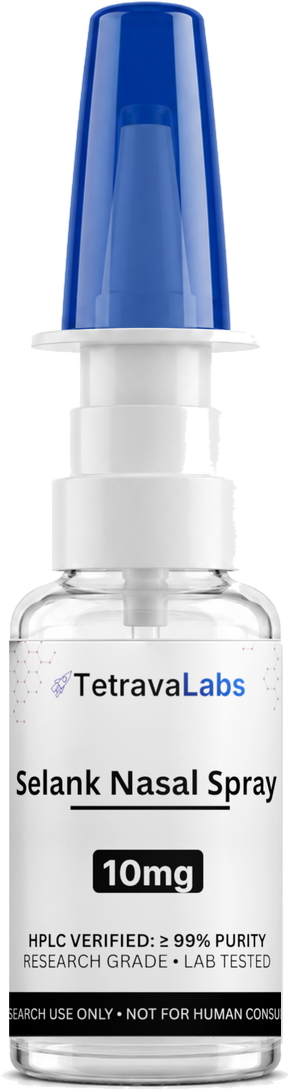
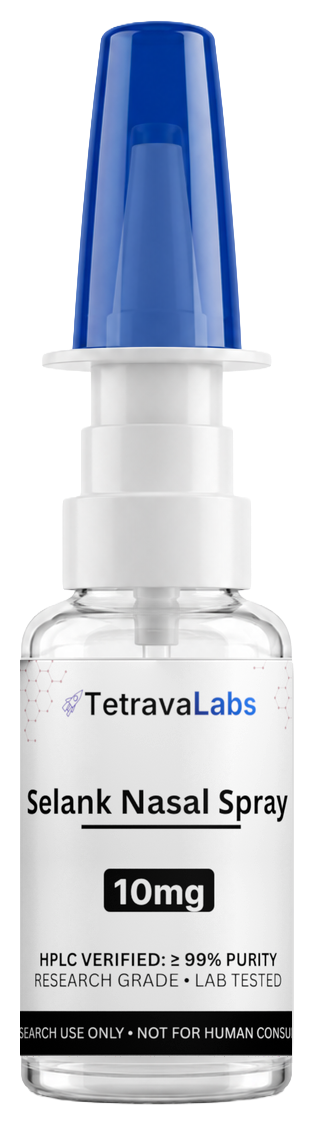
fix: crop hero images and correct intrinsic dimensions for all 3 products

diff --git a/apps/storefront/src/app/globals.css b/apps/storefront/src/app/globals.css
@@ -176,161 +176,159 @@
   animation: mesh-drift-3 18s ease-in-out infinite;
 }
 
-/* Homepage hero — overlapping product cluster */
+/* ─── Homepage hero — SwissChems-style overlapping product cluster ─── */
+
 .hero-stage {
   position: relative;
+  z-index: 2;
   width: 100%;
-  max-width: 600px;
+  max-width: 640px;
   margin: 0 auto;
-  height: clamp(320px, 38vw, 430px);
-  display: flex;
-  align-items: flex-end;
-  justify-content: center;
+  /* Tall enough for the largest bottle; overflow-visible lets bases dip below */
+  height: clamp(360px, 44vw, 520px);
+  /* Push stage down so bottle bases "pop up" from the green trust bar */
+  transform: translateY(clamp(28px, 4.5vw, 68px));
 }
 
 .hero-stage-glow {
   position: absolute;
-  top: 46%;
+  top: 50%;
   left: 50%;
-  width: 78%;
-  height: 78%;
+  width: 86%;
+  height: 60%;
   transform: translate(-50%, -50%);
   background: radial-gradient(
-    closest-side,
-    rgb(13 148 136 / 0.16),
-    rgb(37 99 235 / 0.08) 55%,
-    transparent 78%
+    ellipse 80% 70% at 50% 50%,
+    rgb(13 148 136 / 0.14),
+    rgb(37 99 235 / 0.07) 45%,
+    transparent 80%
   );
-  filter: blur(6px);
+  filter: blur(8px);
   pointer-events: none;
   z-index: 0;
 }
 
 .hero-stage-cluster {
-  position: relative;
-  width: 100%;
-  height: 100%;
+  position: absolute;
+  inset: 0;
   z-index: 1;
 }
 
 .hero-stage-floor {
   position: absolute;
   left: 50%;
-  bottom: clamp(20px, 5%, 44px);
-  width: 74%;
-  height: 34px;
+  bottom: 4px;
+  width: 80%;
+  height: 40px;
   transform: translateX(-50%);
-  background: radial-gradient(
-    50% 50% at 50% 50%,
-    rgb(15 23 42 / 0.18),
-    transparent 72%
-  );
-  filter: blur(3px);
+  background: radial-gradient(50% 50% at 50% 50%, rgb(15 23 42 / 0.16), transparent 72%);
+  filter: blur(6px);
   z-index: 0;
   pointer-events: none;
 }
 
-.hero-prod {
+/* Shared slot wrapper — same as SwissChems .h3-slot */
+.hero-slot {
   position: absolute;
-  bottom: 0;
-  display: block;
   transform-origin: center bottom;
-  transition: transform 0.3s ease, filter 0.3s ease;
 }
 
 .hero-prod-img {
   display: block;
   width: auto;
-  height: auto;
-  max-width: none;
+  transform-origin: center bottom;
   will-change: transform;
   backface-visibility: hidden;
 }
 
-/* Capsule bottle — back layer, anchored right, tucked behind vial */
-.hero-prod-back {
-  right: 8%;
+/* ── Left slot: Retatrutide vial (small, back, z-1) ── */
+.hero-slot-left {
+  left: 8%;
+  bottom: -26px;
+  transform: rotate(-6deg);
   z-index: 1;
-  transform: rotate(6deg);
-  animation: hero-rise 1.1s cubic-bezier(0.16, 0.84, 0.3, 1) 0.28s both;
 }
 
-.hero-prod-back .hero-prod-img {
-  height: clamp(220px, 27vw, 322px);
-  filter: drop-shadow(-6px 16px 24px rgb(15 23 42 / 0.22));
+.hero-slot-left .hero-prod-img {
+  height: clamp(264px, 28vw, 340px);
+  filter: drop-shadow(6px 14px 20px rgb(15 23 42 / 0.20));
+  animation:
+    hero-h3rise 1.1s cubic-bezier(0.16, 0.84, 0.3, 1) 0.30s both,
+    hero-h3zoom-side 9s ease-in-out 3.6s infinite;
 }
 
-.hero-prod-back:hover {
-  transform: rotate(6deg) translateY(-6px);
-}
-
-/* Nasal spray — mid layer, tall, left, tucked behind vial */
-.hero-prod-mid {
-  left: 6%;
+/* ── Center slot: Selank Nasal Spray (tall, mid, z-2) ── */
+.hero-slot-center {
+  left: 31%;
+  bottom: -15px;
   z-index: 2;
-  transform: rotate(-7deg);
-  animation: hero-rise 1.1s cubic-bezier(0.16, 0.84, 0.3, 1) 0.16s both;
 }
 
-.hero-prod-mid .hero-prod-img {
-  height: clamp(262px, 31vw, 374px);
-  filter: drop-shadow(6px 16px 24px rgb(15 23 42 / 0.22));
+.hero-slot-center .hero-prod-img {
+  height: clamp(300px, 32vw, 386px);
+  filter: drop-shadow(0 16px 22px rgb(15 23 42 / 0.22));
+  animation:
+    hero-h3rise 1.1s cubic-bezier(0.16, 0.84, 0.3, 1) 0.18s both,
+    hero-h3zoom-side 9s ease-in-out 2.0s infinite;
 }
 
-.hero-prod-mid:hover {
-  transform: rotate(-7deg) translateY(-6px);
-}
-
-/* Vial — front hero layer, centered, overlapping both */
-.hero-prod-front {
-  left: 50%;
+/* ── Right slot: BPC-157 Capsules (largest, front, z-3) ── */
+.hero-slot-right {
+  right: -1%;
+  bottom: -34px;
+  transform: rotate(6deg);
   z-index: 3;
-  transform: translateX(-50%) rotate(-1deg);
-  animation: hero-rise-front 1.2s cubic-bezier(0.16, 0.84, 0.3, 1) 0.05s both;
 }
 
-.hero-prod-front .hero-prod-img {
-  height: clamp(256px, 31vw, 374px);
-  filter: drop-shadow(0 20px 30px rgb(15 23 42 / 0.26));
+.hero-slot-right .hero-prod-img {
+  height: clamp(320px, 36vw, 436px);
+  filter: drop-shadow(-8px 20px 28px rgb(15 23 42 / 0.26));
+  animation:
+    hero-h3rise 1.2s cubic-bezier(0.16, 0.84, 0.3, 1) 0.06s both,
+    hero-h3zoom-front 9s ease-in-out 0.55s infinite;
 }
 
-.hero-prod-front:hover {
-  transform: translateX(-50%) rotate(-1deg) translateY(-8px);
+/* ── Hover lifts ── */
+.hero-slot-left:hover  { transform: rotate(-6deg) translateY(-6px); }
+.hero-slot-center:hover { transform: translateY(-6px); }
+.hero-slot-right:hover { transform: rotate(6deg) translateY(-8px); }
+
+/* ── Keyframes (exact SwissChems spec) ── */
+@keyframes hero-h3rise {
+  0%   { transform: translateY(22px) scale(0.965); opacity: 0; }
+  100% { transform: translateY(0) scale(1);        opacity: 1; }
 }
 
-@keyframes hero-rise {
-  0% {
-    opacity: 0;
-    translate: 0 26px;
-  }
-  100% {
-    opacity: 1;
-    translate: 0 0;
-  }
+@keyframes hero-h3zoom-front {
+  0%, 100% { transform: scale(1);     }
+  50%       { transform: scale(1.075); }
 }
 
-@keyframes hero-rise-front {
-  0% {
-    opacity: 0;
-    translate: 0 30px;
-  }
-  100% {
-    opacity: 1;
-    translate: 0 0;
-  }
+@keyframes hero-h3zoom-side {
+  0%, 100% { transform: scale(1);    }
+  50%       { transform: scale(1.04); }
 }
 
 @media (max-width: 980px) {
   .hero-stage {
     max-width: 480px;
-    height: clamp(320px, 62vw, 400px);
+    height: clamp(300px, 60vw, 400px);
+    transform: translateY(clamp(16px, 5vw, 40px));
   }
+
+  .hero-slot-left   .hero-prod-img { height: clamp(200px, 28vw, 260px); }
+  .hero-slot-center .hero-prod-img { height: clamp(224px, 32vw, 290px); }
+  .hero-slot-right  .hero-prod-img { height: clamp(252px, 36vw, 320px); }
 }
 
 @media (prefers-reduced-motion: reduce) {
-  .hero-prod {
+  .hero-slot .hero-prod-img,
+  .hero-slot-left .hero-prod-img,
+  .hero-slot-center .hero-prod-img,
+  .hero-slot-right .hero-prod-img {
     animation: none !important;
     opacity: 1;
+    transform: none;
   }
 }
 

diff --git a/apps/storefront/src/components/home/hero-product-stage.tsx b/apps/storefront/src/components/home/hero-product-stage.tsx
@@ -3,30 +3,30 @@ import Link from "next/link"
 
 const HERO_PRODUCTS = [
   {
-    slot: "back" as const,
-    src: "/products/v2/hero/bpc157-capsules.png",
-    href: "/product/bpc-157-capsules-100-count-500mcg",
-    label: "BPC-157 Capsules",
-    width: 503,
-    height: 1002,
+    slot: "left" as const,
+    src: "/products/v2/hero/retatrutide-20mg.png",
+    href: "/product/retatrutide-20mg",
+    label: "Retatrutide 20mg",
+    width: 334,
+    height: 750,
     priority: false
   },
   {
-    slot: "mid" as const,
+    slot: "center" as const,
     src: "/products/v2/hero/selank-nasal-spray-10mg.png",
     href: "/product/selank-nasal-spray-10mg",
     label: "Selank Nasal Spray 10mg",
-    width: 289,
-    height: 1090,
+    width: 314,
+    height: 1125,
     priority: false
   },
   {
-    slot: "front" as const,
-    src: "/products/v2/hero/retatrutide-5mg.png",
-    href: "/product/retatrutide-5mg",
-    label: "Retatrutide 5mg",
-    width: 361,
-    height: 717,
+    slot: "right" as const,
+    src: "/products/v2/hero/bpc-157-capsules.png",
+    href: "/product/bpc-157-capsules-100-count-500mcg",
+    label: "BPC-157 Capsules",
+    width: 540,
+    height: 1028,
     priority: true
   }
 ]
@@ -37,22 +37,20 @@ export function HeroProductStage() {
       <div className="hero-stage-glow" aria-hidden="true" />
       <div className="hero-stage-cluster">
         {HERO_PRODUCTS.map((product) => (
-          <Link
-            key={product.slot}
-            href={product.href}
-            className={`hero-prod hero-prod-${product.slot}`}
-            aria-label={product.label}
-          >
-            <Image
-              src={product.src}
-              alt=""
-              width={product.width}
-              height={product.height}
-              priority={product.priority}
-              sizes="(max-width: 980px) 44vw, 300px"
-              className="hero-prod-img"
-            />
-          </Link>
+          <div key={product.slot} className={`hero-slot hero-slot-${product.slot}`}>
+            <Link href={product.href} aria-label={product.label}>
+              <Image
+                src={product.src}
+                alt={product.label}
+                width={product.width}
+                height={product.height}
+                priority={product.priority}
+                unoptimized
+                sizes="(max-width: 980px) 44vw, 360px"
+                className="hero-prod-img"
+              />
+            </Link>
+          </div>
         ))}
         <div className="hero-stage-floor" aria-hidden="true" />
       </div>

diff --git a/apps/storefront/src/app/page.tsx b/apps/storefront/src/app/page.tsx
@@ -61,7 +61,7 @@ export default async function HomePage() {
 
   return (
     <>
-      <section className="relative flex items-center overflow-hidden bg-[#F8FAFC] lg:min-h-[calc(100vh-11.5rem)]">
+      <section className="relative z-10 flex items-center bg-[#F8FAFC] lg:min-h-[calc(100vh-11.5rem)]">
         <div className="absolute inset-0 overflow-hidden">
           <div className="animate-mesh-1 absolute -left-20 -top-20 h-96 w-96 rounded-full bg-[#0D9488]/10 blur-3xl" />
           <div className="animate-mesh-2 absolute -right-20 top-20 h-80 w-80 rounded-full bg-[#2563EB]/10 blur-3xl" />
@@ -89,7 +89,7 @@ export default async function HomePage() {
               <LiveVisitorCounter />
             </div>
           </div>
-          <div className="flex items-end justify-center lg:items-center">
+          <div className="relative flex items-end justify-center overflow-visible pb-0 lg:h-full">
             <HeroProductStage />
           </div>
         </div>

diff --git a/apps/storefront/src/components/home/hero-trust-strip.tsx b/apps/storefront/src/components/home/hero-trust-strip.tsx
@@ -138,7 +138,7 @@ function TrustIcon({ type }: { type: (typeof items)[number]["icon"] }) {
 
 export function HeroTrustStrip() {
   return (
-    <section className="hero-trust-strip bg-[#0D9488]" aria-label="Trust highlights">
+    <section className="hero-trust-strip relative z-10 bg-[#0D9488]" aria-label="Trust highlights">
       <div className="page-container">
         <div className="grid grid-cols-2 gap-y-5 py-5 sm:py-6 lg:grid-cols-4 lg:gap-0 lg:py-5">
           {items.map((item, index) => (